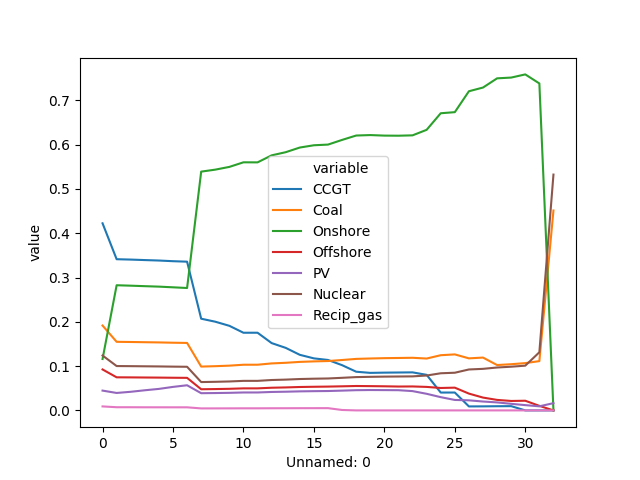
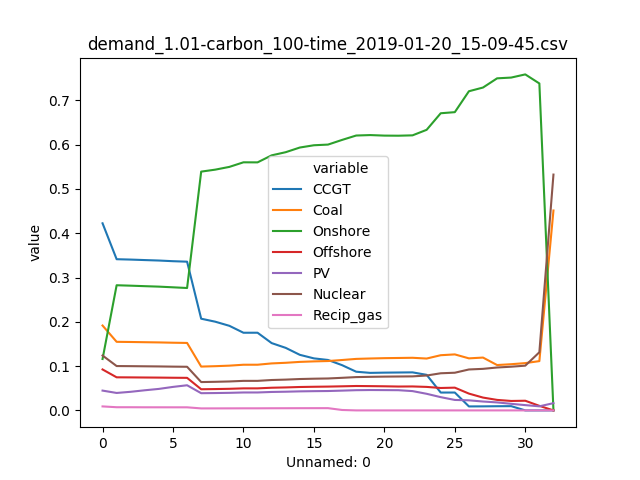
added maximum solar, wind capacities

Changed region(s): [[0.125, 0.0625, 0.875, 0.125]]

diff --git a/run/batchrunners/scenarios/graph_plotter.py b/run/batchrunners/scenarios/graph_plotter.py
@@ -4,6 +4,9 @@ import seaborn as sns
 import glob, os
 import numpy as np
 import pandas as pd
+import logging
+
+logger = logging.getLogger(__name__)
 """
 File name: graph_plotter
 Date created: 20/01/2019
@@ -18,17 +21,21 @@ __email__ = "alexander@kell.es"
 pd.set_option('display.max_rows', 500)
 pd.set_option('display.max_columns', 500)
 
+logging.basicConfig(level=logging.INFO)
+
+
 if __name__ == '__main__':
     os.chdir("{}/run/batchrunners/scenarios/data/".format(ROOT_DIR))
     for file_name in glob.glob('*.csv'):
         scenario_results = pd.read_csv(file_name,dtype=np.float64)
         scenario_results['total'] = scenario_results.iloc[:,1:8].sum(axis=1)
         scenario_results.iloc[:,1:8] = scenario_results.iloc[:,1:8].div(scenario_results.total, axis=0)
-        print(scenario_results)
+        logger.info("{} \n {}".format(file_name ,scenario_results))
         scenario_results_long = pd.melt(scenario_results, id_vars='Unnamed: 0', value_vars=['CCGT', 'Coal', 'Onshore', 'Offshore', 'PV', 'Nuclear',
        'Recip_gas'])
-        plot = sns.lineplot(x="Unnamed: 0", y="value", hue='variable', data=scenario_results_long)
+        plot = sns.lineplot(x="Unnamed: 0", y="value", hue='variable', data=scenario_results_long).set_title(file_name)
         figure = plot.get_figure()
+
         figure.savefig('{}/run/batchrunners/scenarios/figures/{}{}.png'.format(ROOT_DIR, file_name.split(".")[0],file_name.split(".")[1]))
         plt.close('all')
 

diff --git a/src/scenario/scenario_data.py b/src/scenario/scenario_data.py
@@ -130,3 +130,8 @@ lost_load = 90
 upfront_investment_costs = 0.25
 
 years_for_agents_to_predict_forward = 7
+
+
+max_onshore_capacity = 34000 # 42 million acres (170,000 km^2) of agricultural land in UK, 10% dedicated to wind with average energy density of 2W/m^2 David McKay, http://www.withouthotair.com/cft.pdf),
+max_offshore_capacity = 1 # 
+max_pv_capacity = 85000 # 10W/m^2 (David McKay), cover 5% of the UK

diff --git a/run/batchrunners/batch_run.py b/run/batchrunners/batch_run.py
@@ -34,7 +34,7 @@ if __name__ == '__main__':
     fixed_params = {"initialization_year": 2018,
                 "number_of_steps": number_of_steps}
     variable_params = {"carbon_price_scenario": [[18]*50, [100]*50, [200]*50],
-                  "demand_change": [[1.01]*50, [0.995]*50]
+                  "demand_change": [[1.01]*50]
                    }
 
     batch_run = BatchRunnerMP(World,

diff --git a/src/agents/generation_company/gen_co.py b/src/agents/generation_company/gen_co.py
@@ -149,7 +149,7 @@ class GenCo(Agent):
         lowest_upfront_cost = 0
         total_upfront_cost = 0
         counter =0
-        while self.money > lowest_upfront_cost:
+        while 0.25 * self.money > lowest_upfront_cost:
             counter += 1
             # if counter>3:
             #     break
